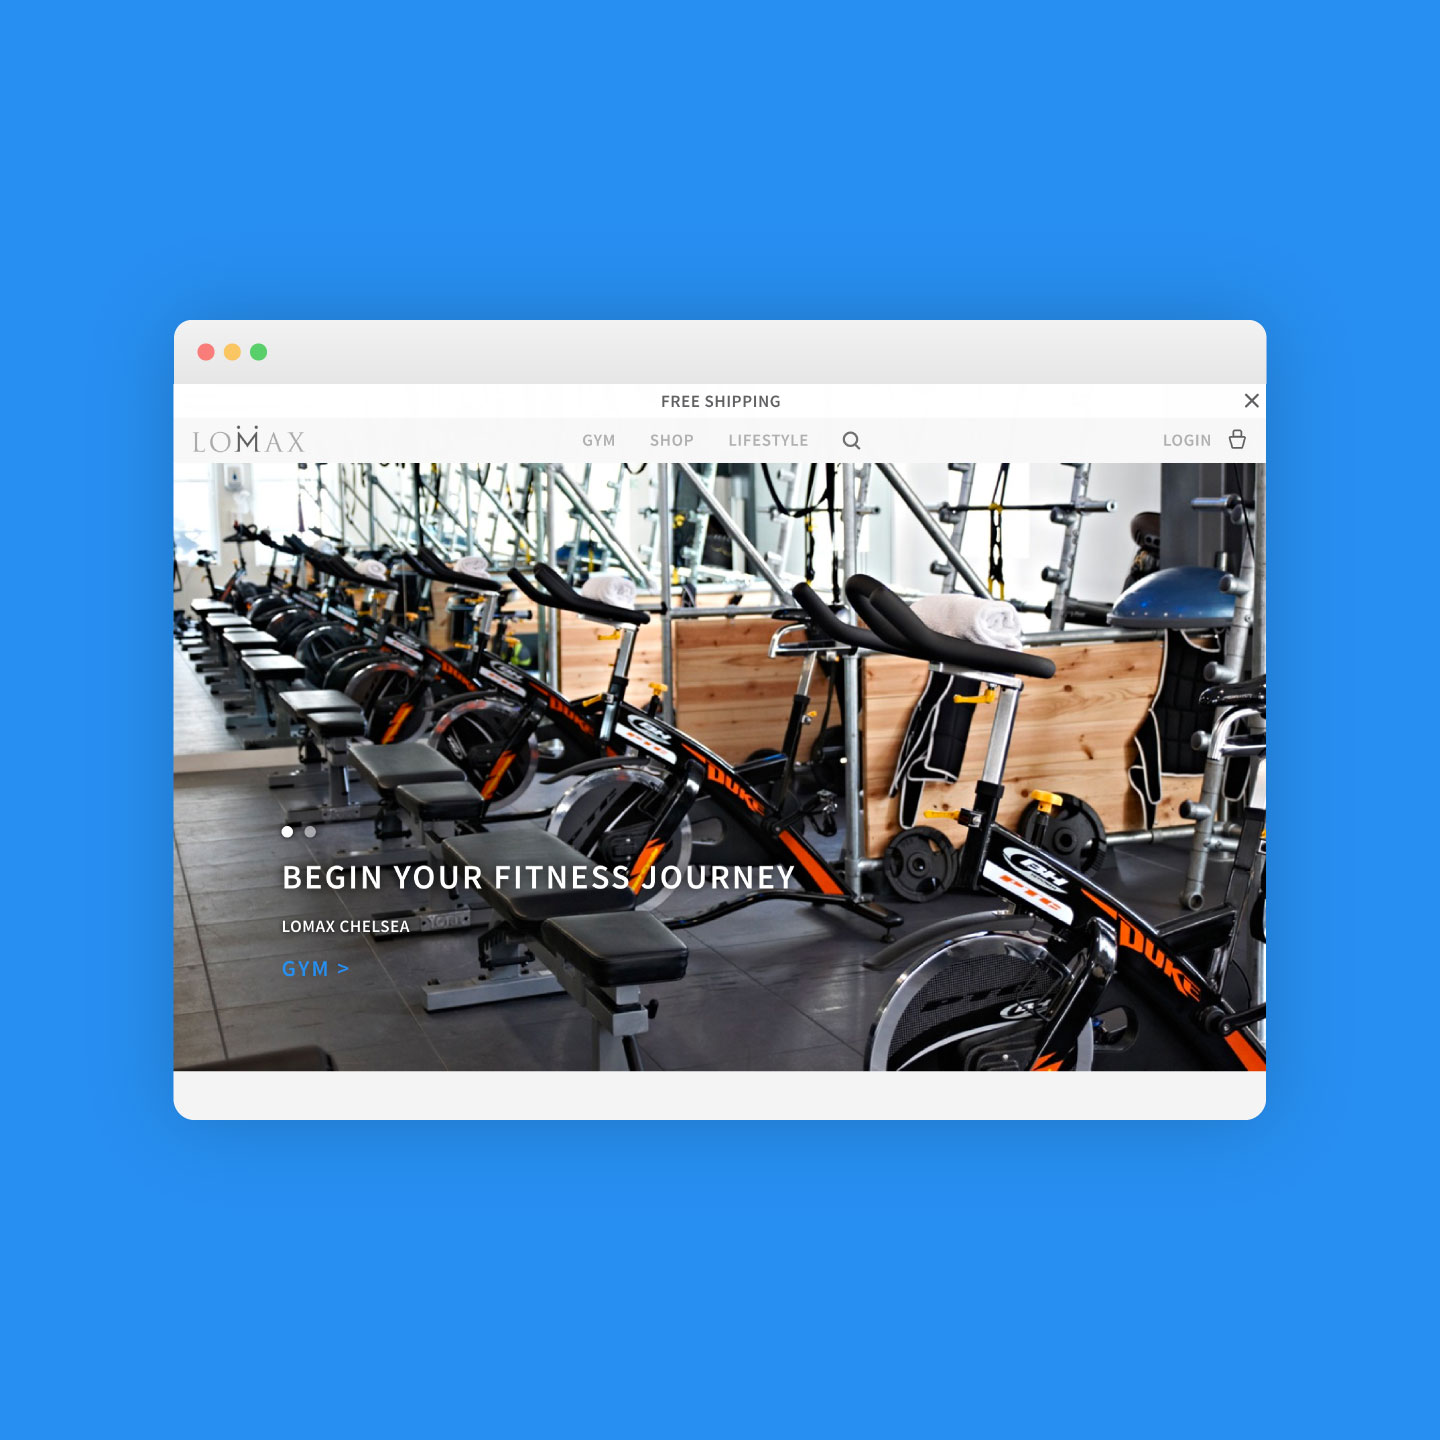
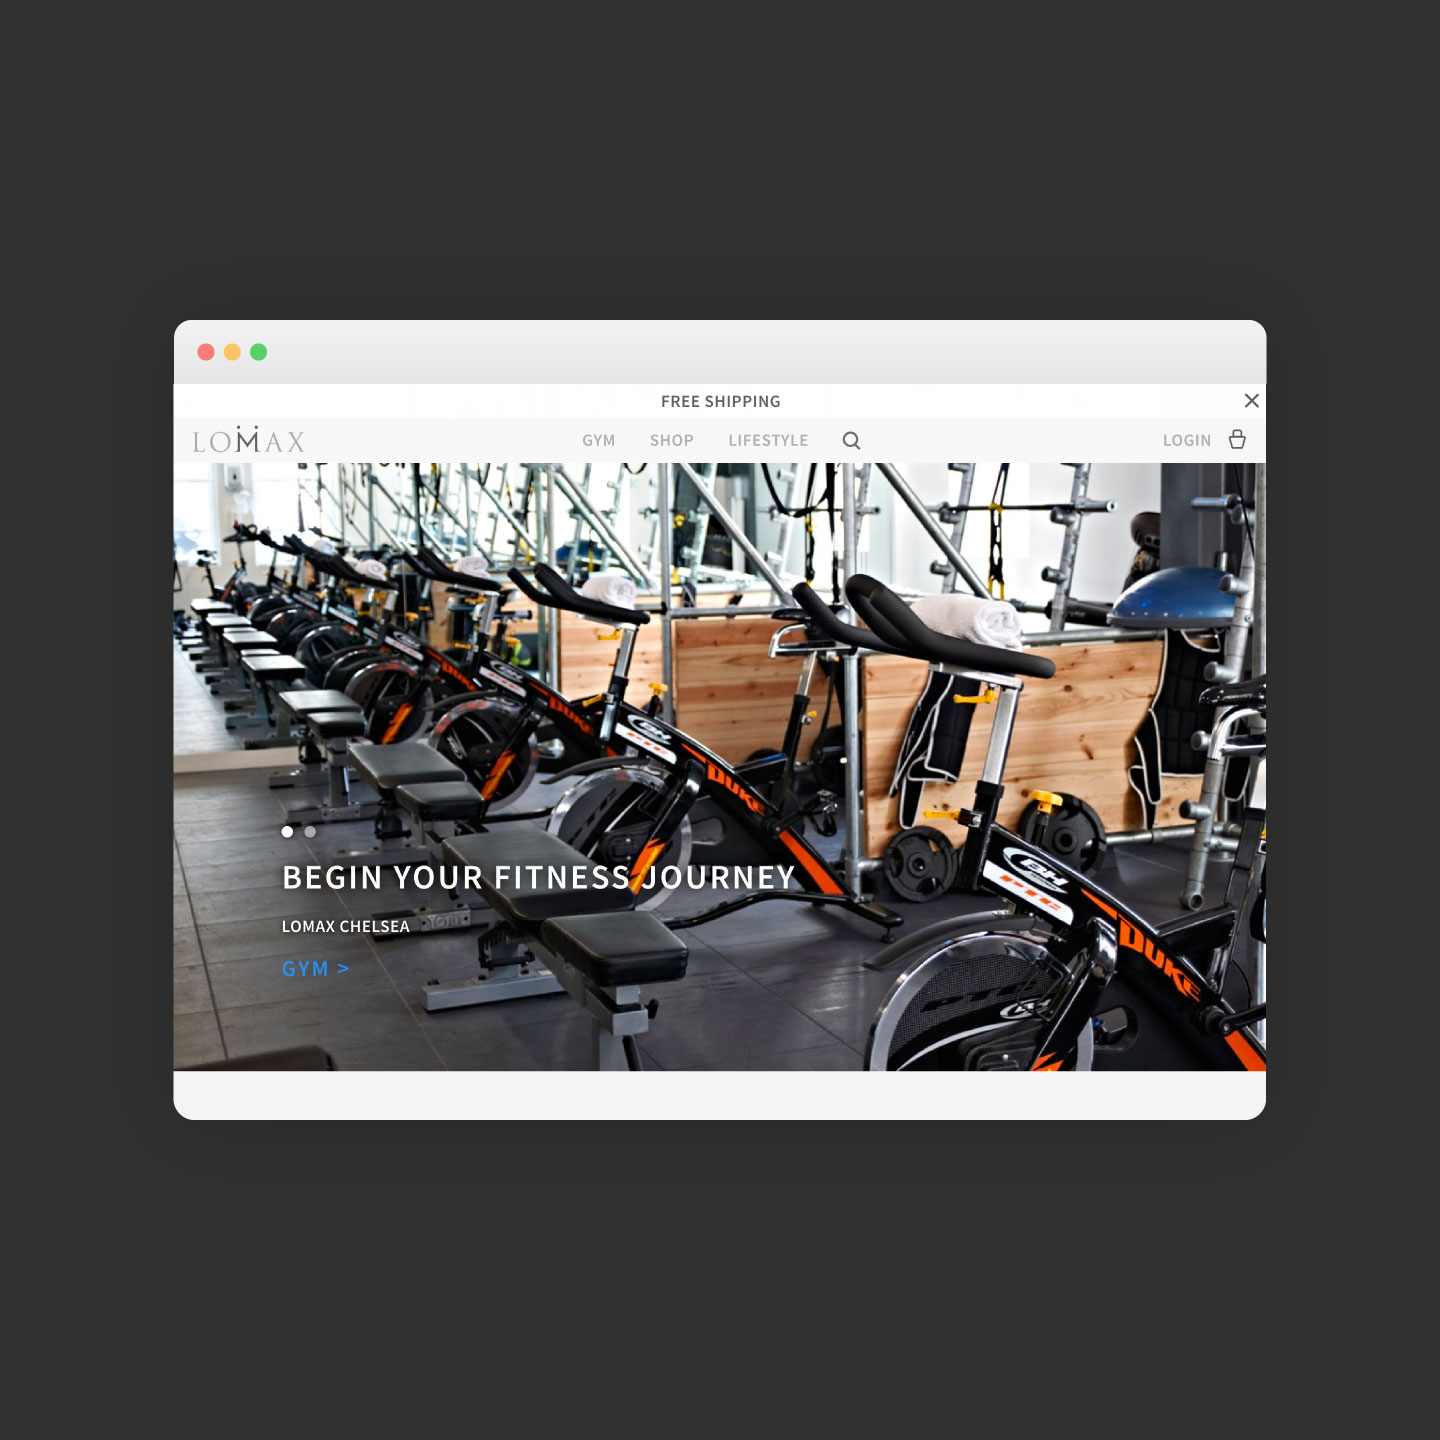
Portfolio update

diff --git a/css/stylesheet.css b/css/stylesheet.css
@@ -157,7 +157,7 @@ div.project-image-text {
 
 
 .top-image-container {
-  padding-top: 60px;
+  padding-top: 0;
   padding-bottom: 0;
 }
 
@@ -447,7 +447,18 @@ ul li {
   text-align: center;
 }
 
+a {
+  color: #000;
+}
 
+@media screen and (max-width: 1400px) {
+  h1 {
+    font-size: 40px;
+  }
+  h2 {
+    font-size: 20px;
+  }
+}
 
 
 
@@ -536,8 +547,22 @@ div.bio p {
   margin-bottom: 20px;
 }
 
+.index-social {
+  position: absolute;
+  bottom: 0;
+  margin-left: 20px;
+  margin-bottom: 20px;
+}
 
+.index-social a {
+  font-size: 22px;
+  margin: 0 12px;
+  color: #000;
+}
 
+.index-social a:hover {
+  opacity: 0.4;
+}
 
 
 
@@ -586,6 +611,12 @@ div.page-head {
   padding-bottom: 50px;
 }
 
+@media screen and (max-width: 768px) {
+  div.page-head {
+    padding-top: 100px;
+    padding-bottom: 50px;
+  }
+}
 
 
 div.top-portfolio {
@@ -615,7 +646,7 @@ div.top-portfolio h1 {
 }
 
 .item img:hover, .item a:focus {
-  border: #000 solid 1px;
+  opacity: 0.6;
   transition: ease 0.5s;
   text-decoration: none;
 }
@@ -773,7 +804,7 @@ div.top-portfolio h1 {
 .footer i {
   font-size: 22px;
   margin: 0 12px;
-  color: #000
+  color: #000;
 }
 
 .footer i:hover {
@@ -985,10 +1016,19 @@ img.round {
   color: #000;
 }
 
+.project.dark nav.desktop li a {
+  color: #fff;
+}
+
 body.project.lomax, body.project.dog-data{
   background-color: #fff;
 }
 
+@media screen and (min-width: 991px) {
+  .home nav.desktop li a.about-link {
+    color: #fff;
+  }
+}
 
 
 
@@ -1037,11 +1077,11 @@ body.project.lomax, body.project.dog-data{
 }
 
 .lomax .demo-container {
-  background-color: #278FF1;
+  background-color: #D9D9D9;
 }
 
 .lomax .project-top {
-  background: linear-gradient(180deg, #278FF1 60%, #fff 40%);
+  background: linear-gradient(180deg, #D9D9D9 60%, #fff 40%);
 }
 
 

diff --git a/about.html b/about.html
@@ -40,7 +40,7 @@
         <div class="col-md-6 offset-md-1">
           <h2>Zoe Pointon, UX Designer @ Sky 🌌</h2>
           <h1>Resume</h1>
-          <p>3 years experience designing user facing products. First class masters degree in Design Informatics from the University of Edinburgh.</p>
+          <p>Product Designer passionate about data intelligence. 3 years experience designing customer facing Products and eCommerce/Booking sites. Took a year out of full-time employment to complete a masters degree in Design Informatics, at the University of Edinburgh.</p>
         </div>
       </div>
     </div>

diff --git a/index.html b/index.html
@@ -78,6 +78,12 @@
       </div>
     </div>
 
+    <div class="index-social">
+      <a target="_blank" href="https://medium.com/@zoepointon"><i class="fab fa-medium-m"></i></a>
+      <a target="_blank" href="https://www.linkedin.com/in/zoepointon/"><i class="fab fa-linkedin-in"></i></a>
+      <a target="_blank" href="https://github.com/zoepointon"><i class="fab fa-github"></i></a>
+    </div>
+
     <script src="js/script-all.js"></script>
   </body>
 </html>

diff --git a/nav.html b/nav.html
@@ -23,6 +23,6 @@
   <div class="title"><a href="index.html"><strong>Z</strong>P</a></div>
   <ul>
     <li><a href="portfolio.html">Projects</a></li>
-    <li><a href="about.html">Resume</a></li>
+    <li><a class="about-link" href="about.html">Resume</a></li>
   </ul>
 </nav>
